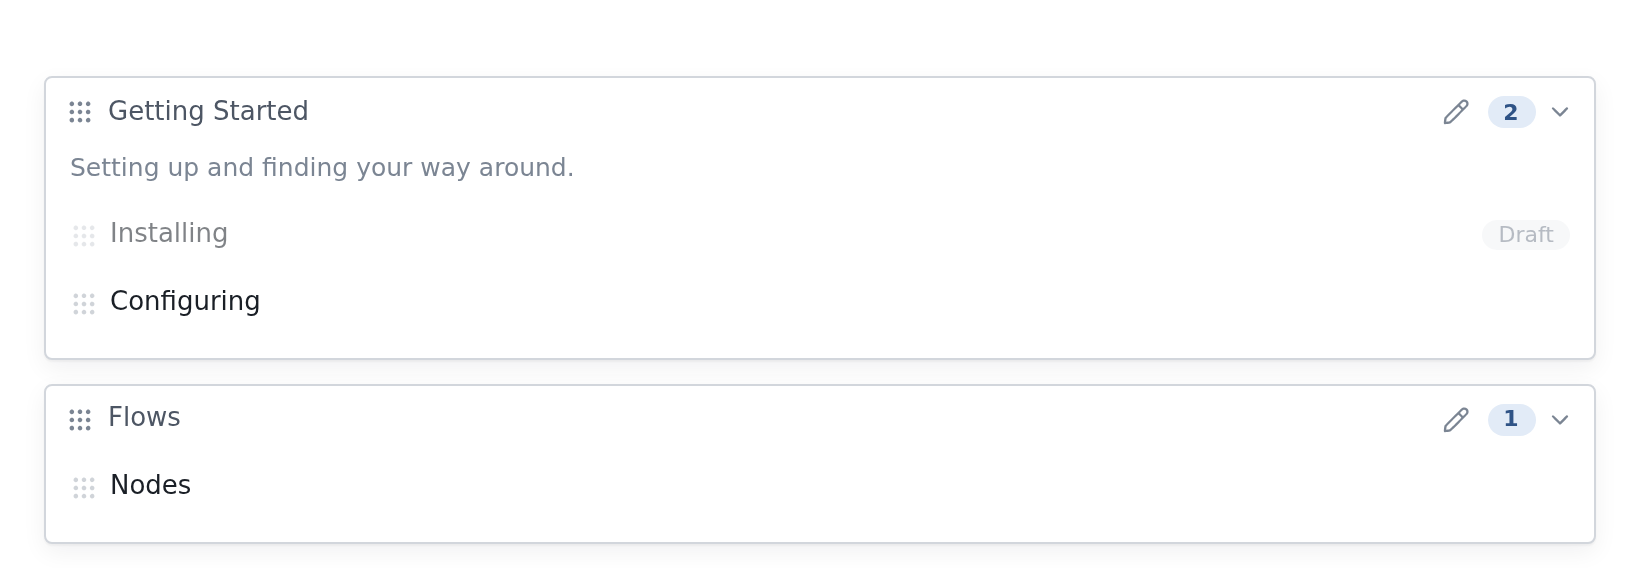
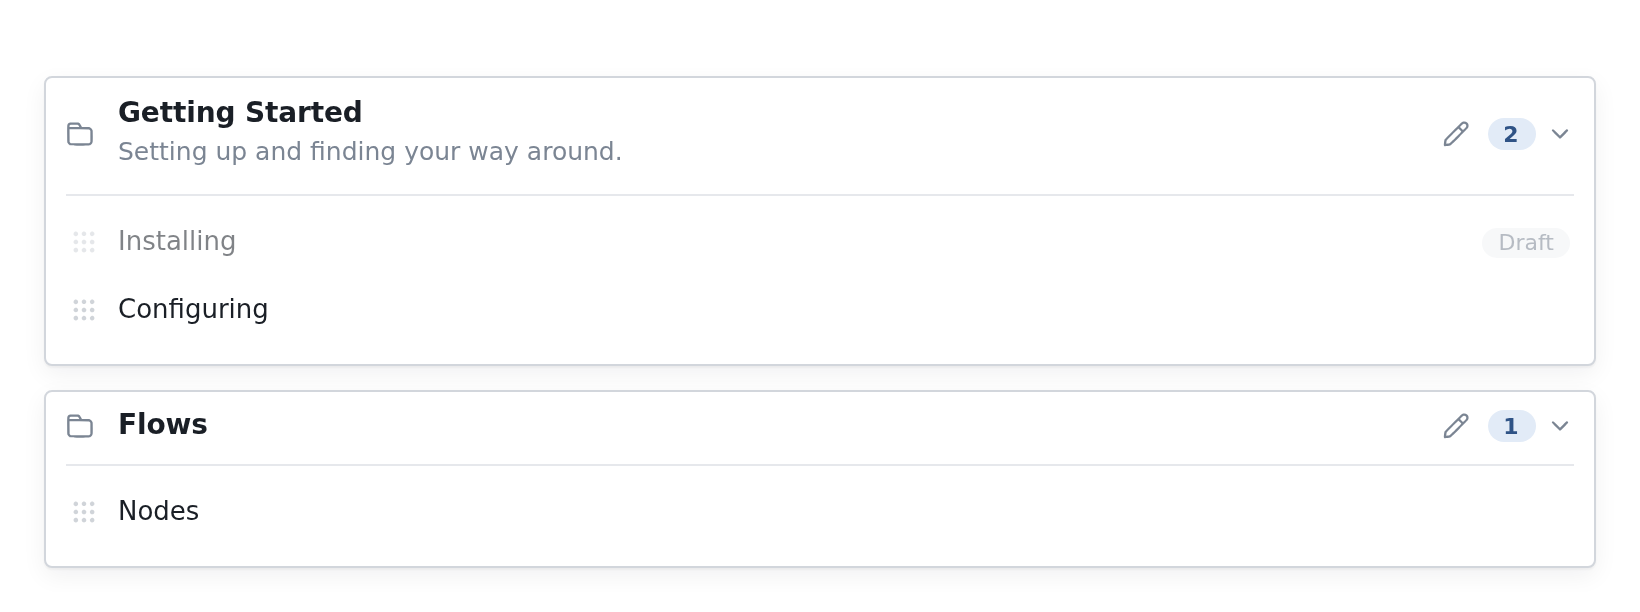
Rework the helpdesk section cards' headers
A section's description moves out of the card body, where it floated between
the header and the articles, to sit under the title in the header - so it
shows whether or not the card is open, clamped to two lines while it's shut.
The title is heavier and darker than the articles under it, a hairline
separates the header from them, titles get more room from their drag
handles, and a section is picked up by a folder rather than the usual grip.

The card gains a description slot, title and grip parts and a grip-icon
attribute to make that possible, all of which leave other cards unchanged.

diff --git a/components/src/list/HelpdeskCards.ts b/components/src/list/HelpdeskCards.ts
@@ -5,7 +5,7 @@ import { Icon } from '../Icons';
 import { RapidElement } from '../RapidElement';
 import { Article, CustomEventType } from '../interfaces';
 import { designTokens } from '../styles/designTokens';
-import { fetchResults, postJSON } from '../utils';
+import { fetchResults, getClasses, postJSON } from '../utils';
 
 /** One card of the helpdesk: a root article standing as a section, and
  * the articles filed under it. */
@@ -262,6 +262,21 @@ export class HelpdeskCards extends RapidElement {
         opacity: 1;
       }
 
+      /* a little more room between a handle and the title it moves than
+         the row's own gap or the card's default gives - for the rows and
+         for the sections alike, set so the two titles still line up */
+      .drag-handle {
+        margin-right: 4px;
+      }
+
+      /* a section is picked up by its folder - which says what the card is
+         as well as where to grab it, so it's drawn a step darker than a
+         plain grip would be */
+      temba-card::part(grip) {
+        margin-right: 12px;
+        --icon-color: var(--text-3);
+      }
+
       .pill {
         flex: 0 0 auto;
         border-radius: 999px;
@@ -301,14 +316,54 @@ export class HelpdeskCards extends RapidElement {
         --icon-color: var(--text-1);
       }
 
-      /* what the section holds, in the section's own words, leading
-         its articles */
+      /* the section's name leads its card: heavier and darker than the
+         articles under it, so the page reads as sections first */
+      temba-card::part(title) {
+        color: var(--text-1);
+        font-size: 14px;
+        font-weight: var(--w-bold);
+        letter-spacing: -0.005em;
+      }
+
+      /* what the section holds, in the section's own words - a subtitle
+         under its name in the card's header, so it's there to read
+         whether or not the card is open. Two lines while the card is
+         shut, so a long one can't make the stack ragged, and all of it
+         once the card is open. */
       .description {
+        margin-top: 2px;
         color: var(--text-3);
         font-size: 12.5px;
-        line-height: 1.4;
-        padding: 2px 2px 8px;
-        white-space: pre-line;
+        font-weight: normal;
+        line-height: 1.45;
+        text-wrap: pretty;
+        overflow-wrap: anywhere;
+      }
+
+      temba-card[collapsed] .description {
+        display: -webkit-box;
+        -webkit-box-orient: vertical;
+        -webkit-line-clamp: 2;
+        overflow: hidden;
+      }
+
+      /* a two line header wants a touch more room than the card gives
+         a single line */
+      temba-card.described::part(title) {
+        padding-top: 2px;
+      }
+
+      temba-card.described .description {
+        padding-bottom: 2px;
+      }
+
+      /* a hairline between what names the section and the articles in
+         it - not over an empty card's dashed landing place, which is
+         already its own box */
+      .rows:not(.empty) {
+        border-top: 1px solid var(--border);
+        margin-top: 2px;
+        padding-top: 6px;
       }
 
       /* an empty card still needs a place for a drop to land */
@@ -713,7 +768,11 @@ export class HelpdeskCards extends RapidElement {
     return html`
       <temba-card
         collapsed
-        class=${this.sortEndpoint ? 'sortable' : ''}
+        grip-icon=${Icon.section}
+        class=${getClasses({
+          sortable: !!this.sortEndpoint,
+          described: !!group.section.description
+        })}
         id=${group.section.uuid}
         label=${group.section.title}
         count=${group.articles.length}
@@ -764,7 +823,9 @@ export class HelpdeskCards extends RapidElement {
           ${this.renderStatus(group.section)}
         </div>
         ${group.section.description
-          ? html`<div class="description">${group.section.description}</div>`
+          ? html`<div slot="description" class="description">
+              ${group.section.description}
+            </div>`
           : null}
         ${this.renderRows(group, index)}
       </temba-card>

diff --git a/components/src/layout/Card.ts b/components/src/layout/Card.ts
@@ -74,6 +74,8 @@ export class Card extends RapidElement {
         display: flex;
         align-items: center;
         flex-grow: 1;
+        /* lets a long title or description wrap or clip within the header rather than widen it */
+        min-width: 0;
         font-size: 13px;
         font-weight: var(--w-medium);
         color: var(--text-2);
@@ -81,6 +83,13 @@ export class Card extends RapidElement {
 
       .label temba-icon {
         margin-right: 0.5em;
+      }
+
+      /* the title, with whatever the host says about the card beneath it - a column of its own so the icon stays
+         beside the pair rather than above the second line */
+      .label-text {
+        flex: 1 1 auto;
+        min-width: 0;
       }
 
       .count {
@@ -217,6 +226,10 @@ export class Card extends RapidElement {
   @property({ type: String })
   icon = '';
 
+  // what the header is picked up by - the grip unless the host has something that says what the card is
+  @property({ type: String, attribute: 'grip-icon' })
+  gripIcon: string = Icon.drag;
+
   @property({ type: Number })
   count = 0;
 
@@ -308,12 +321,19 @@ export class Card extends RapidElement {
     return html`
       <div class="frame">
         <div class="card-header" @click=${this.handleHeaderClick}>
-          <temba-icon name=${Icon.drag} class="grip"></temba-icon>
+          <temba-icon
+            name=${this.gripIcon}
+            class="grip"
+            part="grip"
+          ></temba-icon>
           <div class="label">
             ${this.icon
               ? html`<temba-icon name=${this.icon}></temba-icon>`
               : null}
-            ${this.label}${this.dirty ? ' *' : ''}
+            <div class="label-text">
+              <div part="title">${this.label}${this.dirty ? ' *' : ''}</div>
+              <slot name="description"></slot>
+            </div>
           </div>
           <slot name="header-actions"></slot>
           ${this.count > 0

diff --git a/components/test/temba-helpdesk-cards.test.ts b/components/test/temba-helpdesk-cards.test.ts
@@ -309,6 +309,11 @@ describe(TAG, () => {
     expect(elements[0].getAttribute('label')).to.equal('Getting Started');
     expect(elements[1].getAttribute('label')).to.equal('Flows');
 
+    // a section is picked up by its folder rather than the card's usual grip
+    expect(
+      elements[0].shadowRoot.querySelector('.grip').getAttribute('name')
+    ).to.equal('folder');
+
     // sections arrive shut - a helpdesk is scanned by its sections first
     elements.forEach((card: any) => expect(card.collapsed).to.be.true);
 
@@ -404,12 +409,16 @@ describe(TAG, () => {
     expect(rows.ghostContainer).to.equal(cards.shadowRoot);
   });
 
-  it('shows a section description ahead of its articles', async () => {
+  it('shows a section description under its title in the card header', async () => {
     const cards = await getCards();
     const [gettingStarted, flows] = getCardElements(cards);
-    expect(
-      gettingStarted.querySelector('.description').textContent.trim()
-    ).to.equal('Setting up and finding your way around.');
+    const description = gettingStarted.querySelector('.description');
+    expect(description.textContent.trim()).to.equal(
+      'Setting up and finding your way around.'
+    );
+    expect(description.getAttribute('slot')).to.equal('description');
+    expect(gettingStarted.classList.contains('described')).to.be.true;
+    expect(flows.classList.contains('described')).to.be.false;
     expect(flows.querySelector('.description')).to.not.exist;
   });
 

diff --git a/components/test/temba-card.test.ts b/components/test/temba-card.test.ts
@@ -22,6 +22,18 @@ describe('temba-card', () => {
     await assertScreenshot('layout/card', getClip(card));
   });
 
+  it('is picked up by its grip unless given another icon', async () => {
+    const card = await getCard(html`
+      <temba-card label="Details"><div>Some content</div></temba-card>
+    `);
+    const grip = card.shadowRoot.querySelector('.grip');
+    expect(grip.getAttribute('name')).to.equal('dots-grid');
+
+    card.setAttribute('grip-icon', 'folder');
+    await card.updateComplete;
+    expect(grip.getAttribute('name')).to.equal('folder');
+  });
+
   it('renders collapsed', async () => {
     const card = await getCard(html`
       <temba-card label="Details" icon="info" collapsed>

diff --git a/components/src/Icons.ts b/components/src/Icons.ts
@@ -174,6 +174,8 @@ export enum Icon {
   runs = 'rows-03',
   schedule = 'calendar',
   search = 'search-refraction',
+  /** a helpdesk section - what its card is picked up by, in place of the usual grip */
+  section = 'folder',
   select_open = 'chevron-down',
   select_clear = 'x',
   send = 'send-03',
